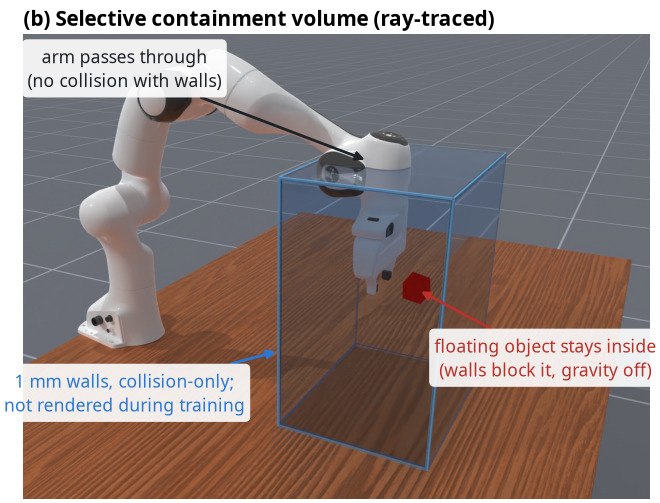
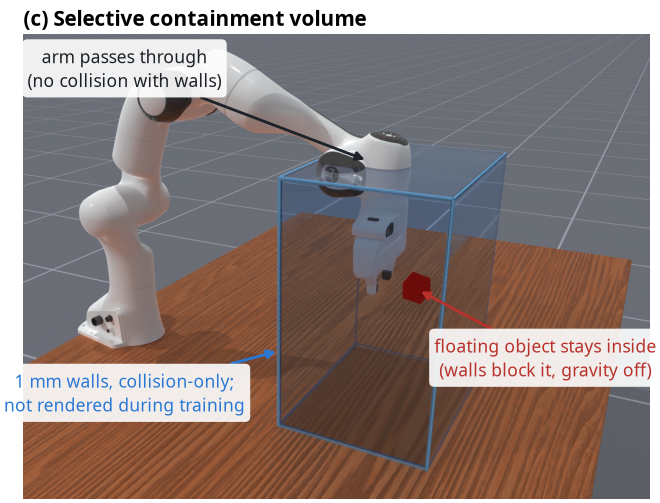
Sync with paper: exploration schematic in Method, compact per-task stages figure, next steps
Claude-Session: https://claude.ai/code/session_01UjkjnsmNTetpR5MXkkNTSc

Changed region(s): [[0.0303, 0.0, 0.7576, 0.0596]]

diff --git a/index.html b/index.html
@@ -107,15 +107,18 @@
 <!-- ================= METHOD ================= -->
 <section id="method"><div class="container">
   <h2>Method</h2>
-  <figure class="fig" style="max-width:640px;margin-left:auto;margin-right:auto">
-    <img src="static/images/fig_method_switch.png" alt="Schematic: object floats with g = 0, the robot makes contact, gravity switches on for the rest of the episode." loading="lazy">
+  <figure class="fig" style="max-width:720px;margin-left:auto;margin-right:auto">
+    <img src="static/images/fig_exploration_schematic.png?v=20261023" alt="Schematic in two panels: (a) a cube floats with g = 0 inside a dashed containment volume and the gripper reaches it; (b) zero-gravity gripper paths fan out through the volume to objects at many heights, while regular-gravity paths stay along the table." loading="lazy">
+    <figcaption>(a) The object floats in a containment volume until the robot touches or grasps it; then gravity switches
+      on. (b) To reach it, the gripper's paths spread through the 3D volume; with regular gravity they stay near the table
+      (schematic; the measured paths are under Results).</figcaption>
   </figure>
   <div class="two">
     <figure class="fig" style="margin:0">
-      <img src="static/images/fig_containment_render.png" alt="Ray-traced render: a Franka arm reaches through a glass box into which a red cube floats." loading="lazy">
+      <img src="static/images/fig_containment_render.png?v=20261023" alt="Render: a Franka arm reaches through a glass box into which a red cube floats." loading="lazy">
     </figure>
     <figure class="fig" style="margin:0">
-      <img src="static/images/fig_method_eval.png" alt="Schematic of supports holding objects at low, middle and high heights, to scale." loading="lazy">
+      <img src="static/images/fig_method_eval.png?v=20261023" alt="Schematic of supports holding objects at low, middle and high heights, to scale." loading="lazy">
     </figure>
   </div>
   <p style="margin-top:16px">
@@ -168,7 +171,7 @@
 
   <h3>They reach and handle raised objects, zero-shot</h3>
   <figure class="fig">
-    <img src="static/images/fig_stages_by_task.png?v=20261022b" alt="Per-task staged curves for six tasks." loading="lazy">
+    <img src="static/images/fig_stages_by_task.png?v=20261023" alt="Per-task staged curves for six tasks." loading="lazy">
     <figcaption><b>Zero-shot staged performance per task</b> (all heights). Ahead at the reach and touch stages on five of
       six tasks; on RollBall the policies are close. Zero-shot task success is low for every policy (9.8% for zero gravity vs. 3.6&ndash;4.8% for the
       baselines, mean over tasks), because the variants add a step no expert was trained for (bringing the object off its
@@ -182,6 +185,15 @@
       for every other starting point. (b) Learning speed (mean success over the first 10M steps) on seven tasks: ahead on
       five, clearly on PullCube, PlaceSphere and RollBall.</figcaption>
   </figure>
+
+  <h3>Next steps</h3>
+  <p>
+    Our experts are state-based; distilling their demonstrations into vision-language-action models and real-robot tests
+    are ongoing. Zero gravity is a separate axis from task setup and task scale, so zero-gravity versions of multi-task
+    suites could add spatial variety on top of the diversity those suites provide. <b>Manipulation in space</b> is a
+    natural direction: in orbit, objects float for the whole task, and a fixed-base arm handling floating objects is very
+    close to what this training setup already allows.
+  </p>
 </div></section>
 
 <!-- ================= BIBTEX ================= -->
